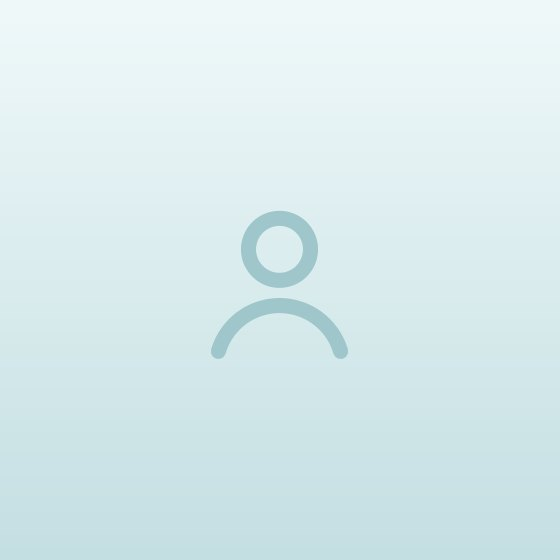
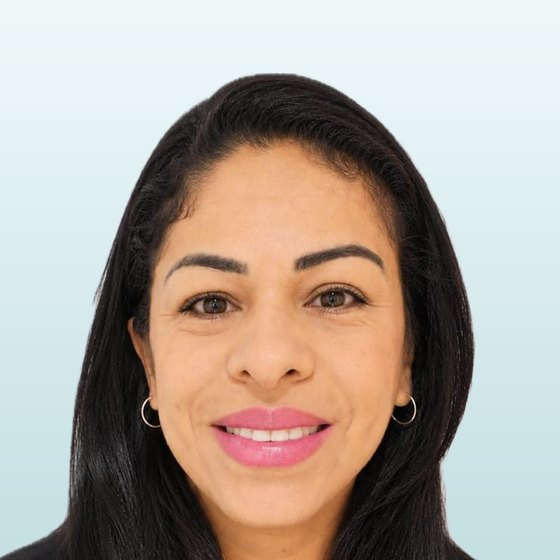
Entra a foto da Rosália e corrige o CREFITO dela
O cabelo comprido inflava a medida de largura da cabeça, então o retrato saía
pequeno demais e não preenchia a moldura; ajuste de escala próprio, como o da
Márcia.

diff --git a/index.html b/index.html
@@ -462,12 +462,12 @@
 
         <article class="card card--team" data-reveal data-reveal-delay="3">
           <div class="avatar">
-            <img src="assets/img/equipe/rosalia.jpg" alt="" width="560" height="560" loading="lazy" decoding="async" />
+            <img src="assets/img/equipe/rosalia.jpg" alt="Rosália Firmino da Silva" width="560" height="560" loading="lazy" decoding="async" />
           </div>
           <div class="card--team__info">
             <h3>Rosália Firmino da Silva</h3>
             <p class="card--team__role">UTI · Ortopédica · Neurológica</p>
-            <p class="card--team__crefito">CREFITO 222312</p>
+            <p class="card--team__crefito">CREFITO 222312-F</p>
           </div>
           <p class="card--team__bio">Fisioterapeuta pelo Centro Universitário Sant&rsquo;Anna e pós-graduada em Fisioterapia em UTI, com atuação em Ortopédica, Neurológica, Respiratória e Pilates.</p>
         </article>
